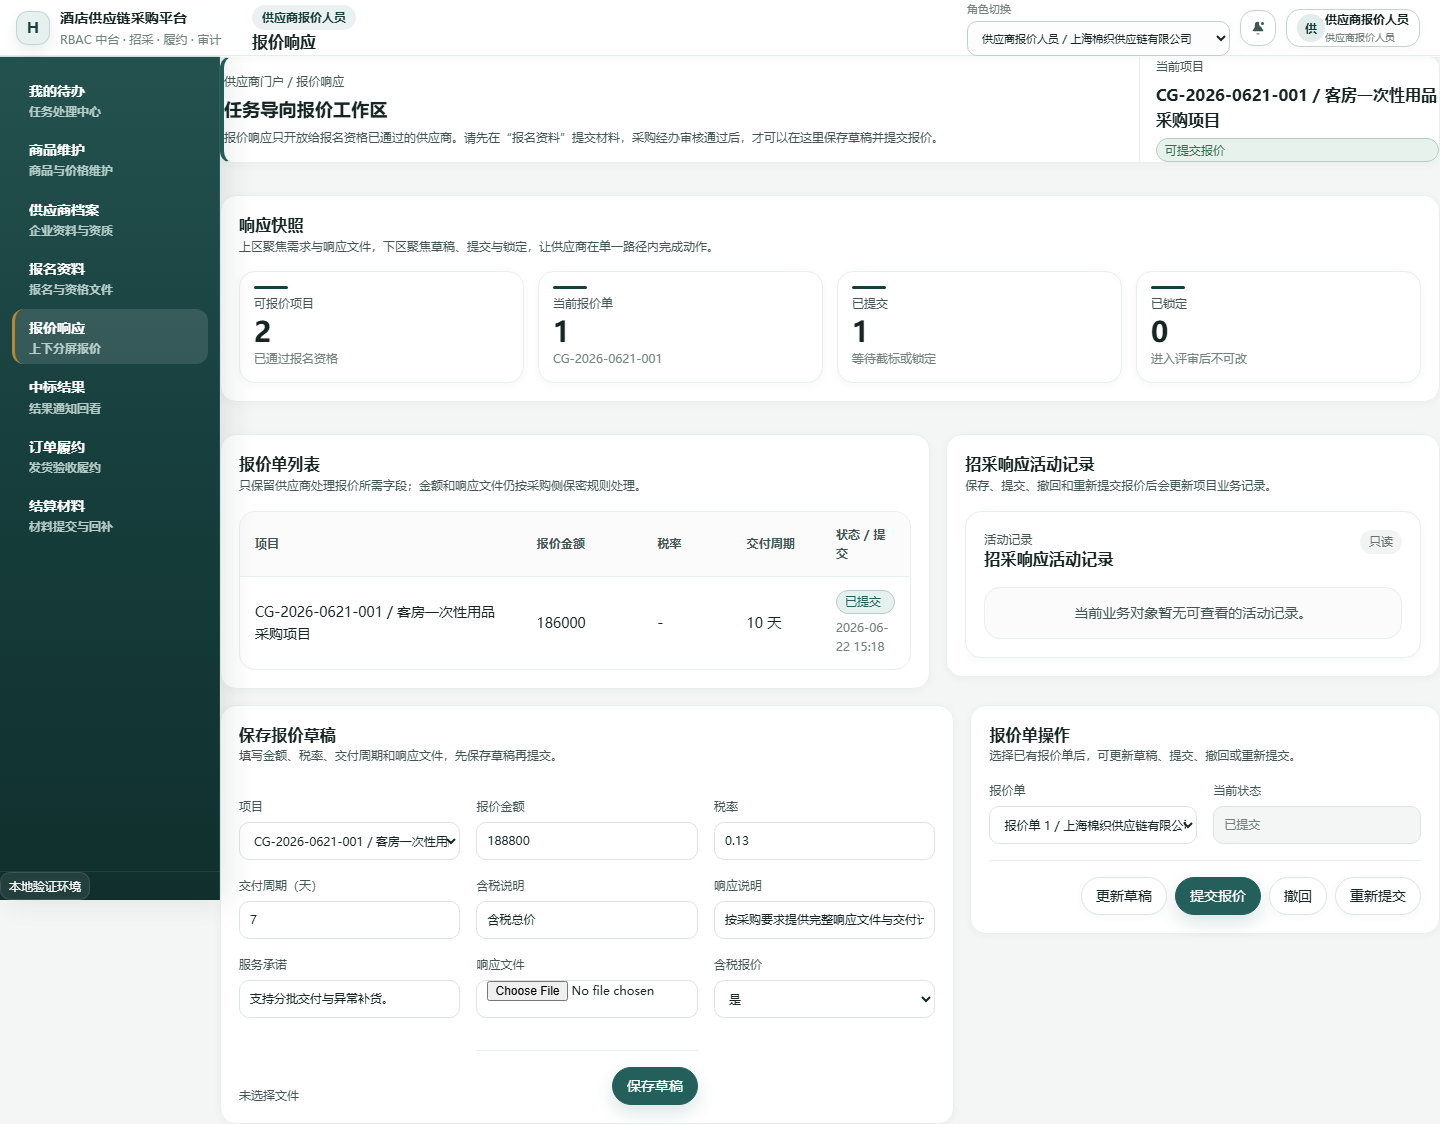
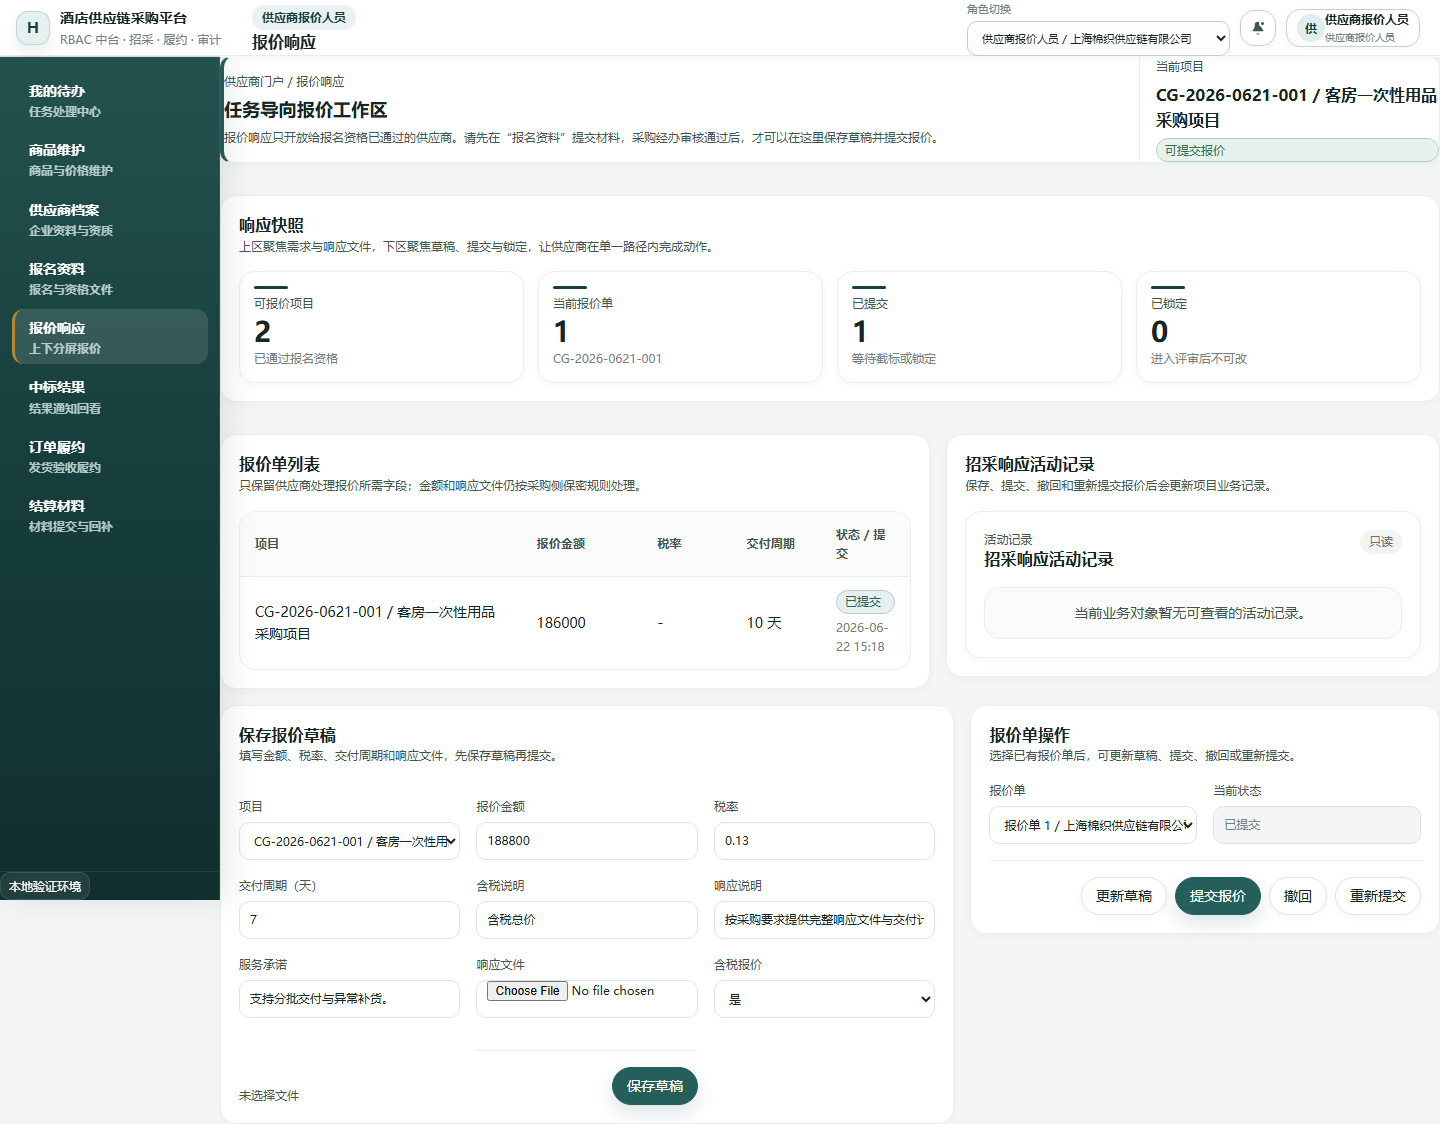
fix: clear UI governance violations

diff --git a/apps/web/src/design-system/enterprise.css b/apps/web/src/design-system/enterprise.css
@@ -6,18 +6,6 @@ body {
   text-rendering: optimizeLegibility;
 }
 
-@keyframes eds-rise-in {
-  from {
-    opacity: 0;
-    transform: translateY(8px);
-  }
-
-  to {
-    opacity: 1;
-    transform: translateY(0);
-  }
-}
-
 @media (prefers-reduced-motion: reduce) {
   *,
   *::before,
@@ -67,7 +55,6 @@ body {
   gap: var(--ep-space-16);
   border-bottom: 1px solid rgba(23, 63, 61, 0.1);
   background: rgba(255, 255, 255, 0.92);
-  backdrop-filter: blur(18px);
   padding: 0 var(--ep-space-20) 0 var(--ep-space-16);
   box-shadow: 0 1px 0 rgba(255, 255, 255, 0.8), var(--ep-shadow-xs);
 }
@@ -373,10 +360,6 @@ body {
   width: 100%;
   min-width: 0;
   padding: var(--ep-space-28) var(--ep-space-32) var(--ep-space-32);
-}
-
-.enterprise-content > * {
-  animation: eds-rise-in 220ms ease both;
 }
 
 .enterprise-auth-shell {
@@ -1134,7 +1117,7 @@ body {
   border-bottom: 0;
 }
 
-.eds-permission-matrix-row.is-head {
+.eds-permission-matrix-row.eds-permission-matrix-head {
   min-height: 40px;
   background: var(--ep-color-panel);
   color: var(--ep-color-text-secondary);
@@ -2769,7 +2752,7 @@ body {
   }
 
   .eds-permission-matrix-row,
-  .eds-permission-matrix-row.is-head {
+  .eds-permission-matrix-row.eds-permission-matrix-head {
     grid-template-columns: 1fr;
     gap: var(--ep-space-4);
     align-items: start;

diff --git a/apps/web/src/pages/dashboard/DashboardTimelineSection.vue b/apps/web/src/pages/dashboard/DashboardTimelineSection.vue
@@ -46,8 +46,7 @@ function stageStateText(state: StageState) {
               v-for="(stage, index) in row.stages"
               :key="`${row.id}-${stage.label}`"
               class="eds-gantt-cell"
-              :class="[`is-${stage.state}`]"
-              :style="{ '--stage-index': index }"
+              :class="[`is-${stage.state}`, `eds-gantt-cell-${index + 1}`]"
             >
               <span class="eds-gantt-dot" aria-hidden="true"></span>
               <span>{{ stageStateText(stage.state) }}</span>

diff --git a/apps/web/src/pages/permissions/PermissionScopePanel.vue b/apps/web/src/pages/permissions/PermissionScopePanel.vue
@@ -39,7 +39,7 @@ const matrixRows = computed(() => {
     </div>
 
     <div class="eds-permission-matrix-table" role="table" aria-label="角色权限矩阵">
-      <div class="eds-permission-matrix-row is-head" role="row">
+      <div class="eds-permission-matrix-row eds-permission-matrix-head" role="row">
         <span role="columnheader">序号</span>
         <span role="columnheader">菜单授权</span>
         <span role="columnheader">状态</span>

diff --git a/docs/sellable-readiness/03_SELLABLE_CHECK_REPORT.md b/docs/sellable-readiness/03_SELLABLE_CHECK_REPORT.md
@@ -1,6 +1,6 @@
 # Sprint 3 Sellable Check Report
 
-- Generated at: 2026-07-05T09:49:58.834Z
+- Generated at: 2026-07-06T00:08:51.511Z
 - Overall status: CONDITIONAL_GO
 - Blocking/failed commands: 0
 - Fail-closed production gates: 1
@@ -79,72 +79,72 @@
 
  Test Files  49 passed (49)
       Tests  306 passed (306)
-   Start at  17:42:11
-   Duration  251.23s (transform 5.64s, setup 0ms, import 26.37s, tests 954.97s, environment 5ms)
+   Start at  08:02:00
+   Duration  219.57s (transform 5.59s, setup 0ms, import 27.57s, tests 829.19s, environment 5ms)
 ```
 
 - stderr tail:
 
 ```
-nd might change at any time
+feature and might change at any time
 (Use `node --trace-warnings ...` to show where the warning was created)
-(node:42792) ExperimentalWarning: SQLite is an experimental feature and might change at any time
+(node:3976) ExperimentalWarning: SQLite is an experimental feature and might change at any time
 (Use `node --trace-warnings ...` to show where the warning was created)
-(node:20668) ExperimentalWarning: SQLite is an experimental feature and might change at any time
+(node:772) ExperimentalWarning: SQLite is an experimental feature and might change at any time
 (Use `node --trace-warnings ...` to show where the warning was created)
-(node:30080) ExperimentalWarning: SQLite is an experimental feature and might change at any time
+(node:44404) ExperimentalWarning: SQLite is an experimental feature and might change at any time
 (Use `node --trace-warnings ...` to show where the warning was created)
-(node:15984) ExperimentalWarning: SQLite is an experimental feature and might change at any time
+(node:44196) ExperimentalWarning: SQLite is an experimental feature and might change at any time
 (Use `node --trace-warnings ...` to show where the warning was created)
-(node:29656) ExperimentalWarning: SQLite is an experimental feature and might change at any time
+(node:36728) ExperimentalWarning: SQLite is an experimental feature and might change at any time
 (Use `node --trace-warnings ...` to show where the warning was created)
-(node:14268) ExperimentalWarning: SQLite is an experimental feature and might change at any time
+(node:42692) ExperimentalWarning: SQLite is an experimental feature and might change at any time
 (Use `node --trace-warnings ...` to show where the warning was created)
-(node:51456) ExperimentalWarning: SQLite is an experimental feature and might change at any time
+(node:42636) ExperimentalWarning: SQLite is an experimental feature and might change at any time
 (Use `node --trace-warnings ...` to show where the warning was created)
-(node:45564) ExperimentalWarning: SQLite is an experimental feature and might change at any time
+(node:44180) ExperimentalWarning: SQLite is an experimental feature and might change at any time
 (Use `node --trace-warnings ...` to show where the warning was created)
-(node:17952) ExperimentalWarning: SQLite is an experimental feature and might change at any time
+(node:35388) ExperimentalWarning: SQLite is an experimental feature and might change at any time
 (Use `node --trace-warnings ...` to show where the warning was created)
-(node:46420) ExperimentalWarning: SQLite is an experimental feature and might change at any time
+(node:44516) ExperimentalWarning: SQLite is an experimental feature and might change at any time
 (Use `node --trace-warnings ...` to show where the warning was created)
-(node:25256) ExperimentalWarning: SQLite is an experimental feature and might change at any time
+(node:7488) ExperimentalWarning: SQLite is an experimental feature and might change at any time
 (Use `node --trace-warnings ...` to show where the warning was created)
-(node:41252) ExperimentalWarning: SQLite is an experimental feature and might change at any time
+(node:42780) ExperimentalWarning: SQLite is an experimental feature and might change at any time
 (Use `node --trace-warnings ...` to show where the warning was created)
-(node:51568) ExperimentalWarning: SQLite is an experimental feature and might change at any time
+(node:28576) ExperimentalWarning: SQLite is an experimental feature and might change at any time
 (Use `node --trace-warnings ...` to show where the warning was created)
-(node:50256) ExperimentalWarning: SQLite is an experimental feature and might change at any time
+(node:18008) ExperimentalWarning: SQLite is an experimental feature and might change at any time
 (Use `node --trace-warnings ...` to show where the warning was created)
-(node:3348) ExperimentalWarning: SQLite is an experimental feature and might change at any time
+(node:42620) ExperimentalWarning: SQLite is an experimental feature and might change at any time
 (Use `node --trace-warnings ...` to show where the warning was created)
-(node:51204) ExperimentalWarning: SQLite is an experimental feature and might change at any time
+(node:44992) ExperimentalWarning: SQLite is an experimental feature and might change at any time
 (Use `node --trace-warnings ...` to show where the warning was created)
-(node:47936) ExperimentalWarning: SQLite is an experimental feature and might change at any time
+(node:21496) ExperimentalWarning: SQLite is an experimental feature and might change at any time
 (Use `node --trace-warnings ...` to show where the warning was created)
-(node:48448) ExperimentalWarning: SQLite is an experimental feature and might change at any time
+(node:42580) ExperimentalWarning: SQLite is an experimental feature and might change at any time
 (Use `node --trace-warnings ...` to show where the warning was created)
-(node:42548) ExperimentalWarning: SQLite is an experimental feature and might change at any time
+(node:43264) ExperimentalWarning: SQLite is an experimental feature and might change at any time
 (Use `node --trace-warnings ...` to show where the warning was created)
-(node:46048) ExperimentalWarning: SQLite is an experimental feature and might change at any time
+(node:18032) ExperimentalWarning: SQLite is an experimental feature and might change at any time
 (Use `node --trace-warnings ...` to show where the warning was created)
-(node:48284) ExperimentalWarning: SQLite is an experimental feature and might change at any time
+(node:472) ExperimentalWarning: SQLite is an experimental feature and might change at any time
 (Use `node --trace-warnings ...` to show where the warning was created)
-(node:51528) ExperimentalWarning: SQLite is an experimental feature and might change at any time
+(node:18272) ExperimentalWarning: SQLite is an experimental feature and might change at any time
 (Use `node --trace-warnings ...` to show where the warning was created)
-(node:42024) ExperimentalWarning: SQLite is an experimental feature and might change at any time
+(node:38608) ExperimentalWarning: SQLite is an experimental feature and might change at any time
 (Use `node --trace-warnings ...` to show where the warning was created)
-(node:45508) ExperimentalWarning: SQLite is an experimental feature and might change at any time
+(node:34076) ExperimentalWarning: SQLite is an experimental feature and might change at any time
 (Use `node --trace-warnings ...` to show where the warning was created)
-(node:47692) ExperimentalWarning: SQLite is an experimental feature and might change at any time
+(node:9248) ExperimentalWarning: SQLite is an experimental feature and might change at any time
 (Use `node --trace-warnings ...` to show where the warning was created)
-(node:51556) ExperimentalWarning: SQLite is an experimental feature and might change at any time
+(node:9580) ExperimentalWarning: SQLite is an experimental feature and might change at any time
 (Use `node --trace-warnings ...` to show where the warning was created)
-(node:29924) ExperimentalWarning: SQLite is an experimental feature and might change at any time
+(node:312) ExperimentalWarning: SQLite is an experimental feature and might change at any time
 (Use `node --trace-warnings ...` to show where the warning was created)
-(node:27232) ExperimentalWarning: SQLite is an experimental feature and might change at any time
+(node:38884) ExperimentalWarning: SQLite is an experimental feature and might change at any time
 (Use `node --trace-warnings ...` to show where the warning was created)
-(node:16620) ExperimentalWarning: SQLite is an experimental feature and might change at any time
+(node:18344) ExperimentalWarning: SQLite is an experimental feature and might change at any time
 (Use `node --trace-warnings ...` to show where the warning was created)
 ```
 
@@ -480,7 +480,7 @@ upply-mall",
       "finalUrl": "http://127.0.0.1:5296/archive-audit",
       "finalPath": "/archive-audit",
       "routeMatched": true,
-      "bodyLength": 1415,
+      "bodyLength": 1368,
       "counts": {
         ".enterprise-shell": 1,
         ".eds-page-header": 10,
@@ -504,7 +504,7 @@ upply-mall",
       "finalUrl": "http://127.0.0.1:5296/audit",
       "finalPath": "/audit",
       "routeMatched": true,
-      "bodyLength": 1349,
+      "bodyLength": 1922,
       "counts": {
         ".enterprise-shell": 1,
         ".eds-page-header": 4,
@@ -656,7 +656,7 @@ upply-mall",
       "userId": "u2",
       "label": "采购项目执行详情",
       "path": "/project-workbench/p-new-5",
-      "requiredText": "酒店客房布草补采项目-1783244894979",
+      "requiredText": "酒店客房布草补采项目-1783296440799",
       "finalPath": "/project-workbench/p-new-5",
       "passed": true,
       "pathLoaded": true,
@@ -933,7 +933,7 @@ upply-mall",
 > node scripts/r10-backup-restore-drill.mjs
 
 {
-  "generatedAt": "2026-07-05T09:48:31.671Z",
+  "generatedAt": "2026-07-06T00:07:35.470Z",
   "scope": "M6-B local/UAT backup restore drill",
   "source": {
     "dataRoot": "E:\\Software Development\\e-Procurement\\output\\stage5-uat-data",
@@ -941,18 +941,18 @@ upply-mall",
     "filesRoot": "E:\\Software Development\\e-Procurement\\output\\stage5-uat-data\\files"
   },
   "backup": {
-    "backupRoot": "E:\\Software Development\\e-Procurement\\output\\r10-backup-restore\\backup-2026-07-05T09-48-31-669Z",
-    "sqliteFile": "E:\\Software Development\\e-Procurement\\output\\r10-backup-restore\\backup-2026-07-05T09-48-31-669Z\\runtime.sqlite",
-    "filesRoot": "E:\\Software Development\\e-Procurement\\output\\r10-backup-restore\\backup-2026-07-05T09-48-31-669Z\\files",
+    "backupRoot": "E:\\Software Development\\e-Procurement\\output\\r10-backup-restore\\backup-2026-07-06T00-07-35-467Z",
+    "sqliteFile": "E:\\Software Development\\e-Procurement\\output\\r10-backup-restore\\backup-2026-07-06T00-07-35-467Z\\runtime.sqlite",
+    "filesRoot": "E:\\Software Development\\e-Procurement\\output\\r10-backup-restore\\backup-2026-07-06T00-07-35-467Z\\files",
     "copiedCompanionFiles": [
       "runtime.sqlite-wal",
       "runtime.sqlite-shm"
     ]
   },
   "restore": {
-    "restoreRoot": "E:\\Software Development\\e-Procurement\\output\\r10-backup-restore\\restore-2026-07-05T09-48-31-669Z",
-    "sqliteFile": "E:\\Software Development\\e-Procurement\\output\\r10-backup-restore\\restore-2026-07-05T09-48-31-669Z\\runtime.sqlite",
-    "filesRoot": "E:\\Software Development\\e-Procurement\\output\\r10-backup-restore\\restore-2026-07-05T09-48-31-669Z\\files"
+    "restoreRoot": "E:\\Software Development\\e-Procurement\\output\\r10-backup-restore\\restore-2026-07-06T00-07-35-467Z",
+    "sqliteFile": "E:\\Software Development\\e-Procurement\\output\\r10-backup-restore\\restore-2026-07-06T00-07-35-467Z\\runtime.sqlite",
+    "filesRoot": "E:\\Software Development\\e-Procurement\\output\\r10-backup-restore\\restore-2026-07-06T00-07-35-467Z\\files"
   },
   "checks": {
     "sourceSqliteExists": true,
@@ -1010,7 +1010,7 @@ upply-mall",
 - stderr tail:
 
 ```
-(node:28164) ExperimentalWarning: SQLite is an experimental feature and might change at any time
+(node:42296) ExperimentalWarning: SQLite is an experimental feature and might change at any time
 (Use `node --trace-warnings ...` to show where the warning was created)
 ```
 
@@ -1033,7 +1033,7 @@ upply-mall",
 > vite --host 127.0.0.1 --port 5276
 
 [web]
-  [32m[1mVITE[22m v6.4.3[39m  [2mready in [0m[1m597[22m[2m[0m ms[22m
+  [32m[1mVITE[22m v6.4.3[39m  [2mready in [0m[1m618[22m[2m[0m ms[22m
 
 [web]   [32m➜[39m  [1mLocal[22m:   [36mhttp://127.0.0.1:[1m5276[22m/[39m
 [api] e-procurement API listening on http://127.0.0.1:3216
@@ -1093,7 +1093,7 @@ upply-mall",
 - stderr tail:
 
 ```
-[api] (node:51228) ExperimentalWarning: SQLite is an experimental feature and might change at any time
+[api] (node:8640) ExperimentalWarning: SQLite is an experimental feature and might change at any time
 (Use `node --trace-warnings ...` to show where the warning was created)
 ```
 
@@ -1121,9 +1121,9 @@ transforming...
 rendering chunks...
 computing gzip size...
 [2mdist/[22m[32mindex.html                 [39m[1m[2m  0.48 kB[22m[1m[22m[2m │ gzip:   0.34 kB[22m
-[2mdist/[22m[35massets/index-BmOwoFVQ.css  [39m[1m[2m 47.08 kB[22m[1m[22m[2m │ gzip:   7.58 kB[22m
-[2mdist/[22m[36massets/index-CFcLIbIh.js   [39m[1m[33m870.03 kB[39m[22m[2m │ gzip: 239.96 kB[22m
-[32m✓ built in 4.07s[39m
+[2mdist/[22m[35massets/index-D6r1fUZf.css  [39m[1m[2m 57.88 kB[22m[1m[22m[2m │ gzip:   9.07 kB[22m
+[2mdist/[22m[36massets/index-CPA5rX6E.js   [39m[1m[33m874.07 kB[39m[22m[2m │ gzip: 241.29 kB[22m
+[32m✓ built in 3.61s[39m
 ```
 
 - stderr tail:

diff --git a/docs/sellable-readiness/03_CRITICAL_FLOW_TEST_REPORT.md b/docs/sellable-readiness/03_CRITICAL_FLOW_TEST_REPORT.md
@@ -1,6 +1,6 @@
 # Sprint 3 Critical Flow Test Report
 
-- Generated at: 2026-07-05T23:55:13.511Z
+- Generated at: 2026-07-06T00:07:32.967Z
 - Focused existing tests: p0-permissions.test.ts, m6c-final-security-ops.test.ts, r10-final-uat-production.test.ts, phase3-bidding.test.ts, phase4-expert-review.test.ts, phase5-award-result.test.ts, r6-order-fulfillment.test.ts, r7-settlement-finance.test.ts, m4d-fulfillment-settlement-archive-process.test.ts.
 - Sprint 3 focused verification passed locally: sellable-critical-boundaries.test.ts (9 tests) and affected boundary suite p0-permissions.test.ts, phase4-expert-review.test.ts, phase8-archive-audit.test.ts, phase11-hotel-closed-loop.test.ts, sellable-critical-boundaries.test.ts (50 tests).
 - Current full-suite result must be read from 03_SELLABLE_CHECK_REPORT.md after sellable:check runs.

diff --git a/docs/sellable-readiness/KNOWN_LIMITATIONS.md b/docs/sellable-readiness/KNOWN_LIMITATIONS.md
@@ -1,6 +1,6 @@
 # Known Limitations
 
-- Generated at: 2026-07-05T09:49:58.841Z
+- Generated at: 2026-07-06T00:08:51.516Z
 - Production is NO_GO until real customer external-system and production-infrastructure evidence is attached.
 - Local/test mock capability remains available by design and must stay isolated by production gates.
 - production:gate FAIL_CLOSED is expected in this local branch while real production evidence is absent; it must not be re-labeled as Production Go.

diff --git a/docs/sellable-readiness/03_STATUS_WRITE_INVENTORY.md b/docs/sellable-readiness/03_STATUS_WRITE_INVENTORY.md
@@ -1,6 +1,6 @@
 # Sprint 3 Status Write Inventory
 
-- Generated at: 2026-07-05T23:55:13.503Z
+- Generated at: 2026-07-06T00:07:32.959Z
 - Scope: apps/api/src/routes only.
 - Repository SQL persistence and runtime table sync are intentionally excluded.
 - Direct route-level status writes found: 333

diff --git a/docs/sellable-readiness/09_RBAC_ROLE_AUDIT_REPORT.md b/docs/sellable-readiness/09_RBAC_ROLE_AUDIT_REPORT.md
@@ -1,6 +1,6 @@
 # RBAC Role Audit Report
 
-- Generated at: 2026-07-05T23:55:11.778Z
+- Generated at: 2026-07-06T00:07:31.285Z
 - Step: 5 / 9
 - Result: PASS
 - Scope: 12 角色默认着陆页、版式映射、消息铃铛显隐、侧栏菜单，以及未知角色 fail-closed 审计。

diff --git a/docs/sellable-readiness/02_MENU_SNAPSHOT_REPORT.md b/docs/sellable-readiness/02_MENU_SNAPSHOT_REPORT.md
@@ -1,6 +1,6 @@
 # Sprint 2 Role Menu Snapshot
 
-- Generated at: 2026-07-05T23:55:10.991Z
+- Generated at: 2026-07-06T00:07:30.448Z
 - Frontend source: apps/web/src/permissions/role-model.ts
 - Backend source: apps/api/src/seed/data.ts rolePermissions
 

diff --git a/docs/sellable-readiness/03_CRITICAL_FLOW_REPORT.md b/docs/sellable-readiness/03_CRITICAL_FLOW_REPORT.md
@@ -1,6 +1,6 @@
 # Sprint 3 Critical Flow Report
 
-- Generated at: 2026-07-05T23:55:13.509Z
+- Generated at: 2026-07-06T00:07:32.966Z
 - R8 Workflow remains the execution source.
 - Process Layer and BPMN are kept in shadow/configuration roles only.
 

diff --git a/docs/sellable-readiness/01_UI_COPY_SCAN_REPORT.md b/docs/sellable-readiness/01_UI_COPY_SCAN_REPORT.md
@@ -1,6 +1,6 @@
 # Sprint 1 UI Copy Scan
 
-- Generated at: 2026-07-05T23:53:15.732Z
+- Generated at: 2026-07-06T00:05:45.705Z
 - Scope: apps/web/src visible Vue copy and apps/api/src user-facing string literals.
 - Result: PASS
 - Blockers: 0

diff --git a/docs/sellable-readiness/02_PERMISSION_ALIGNMENT.md b/docs/sellable-readiness/02_PERMISSION_ALIGNMENT.md
@@ -1,6 +1,6 @@
 # Sprint 2 Permission Alignment
 
-- Generated at: 2026-07-05T23:55:12.686Z
+- Generated at: 2026-07-06T00:07:32.075Z
 - Result: PASS
 - Frontend entries that are not represented in backend menu keys: 0
 
